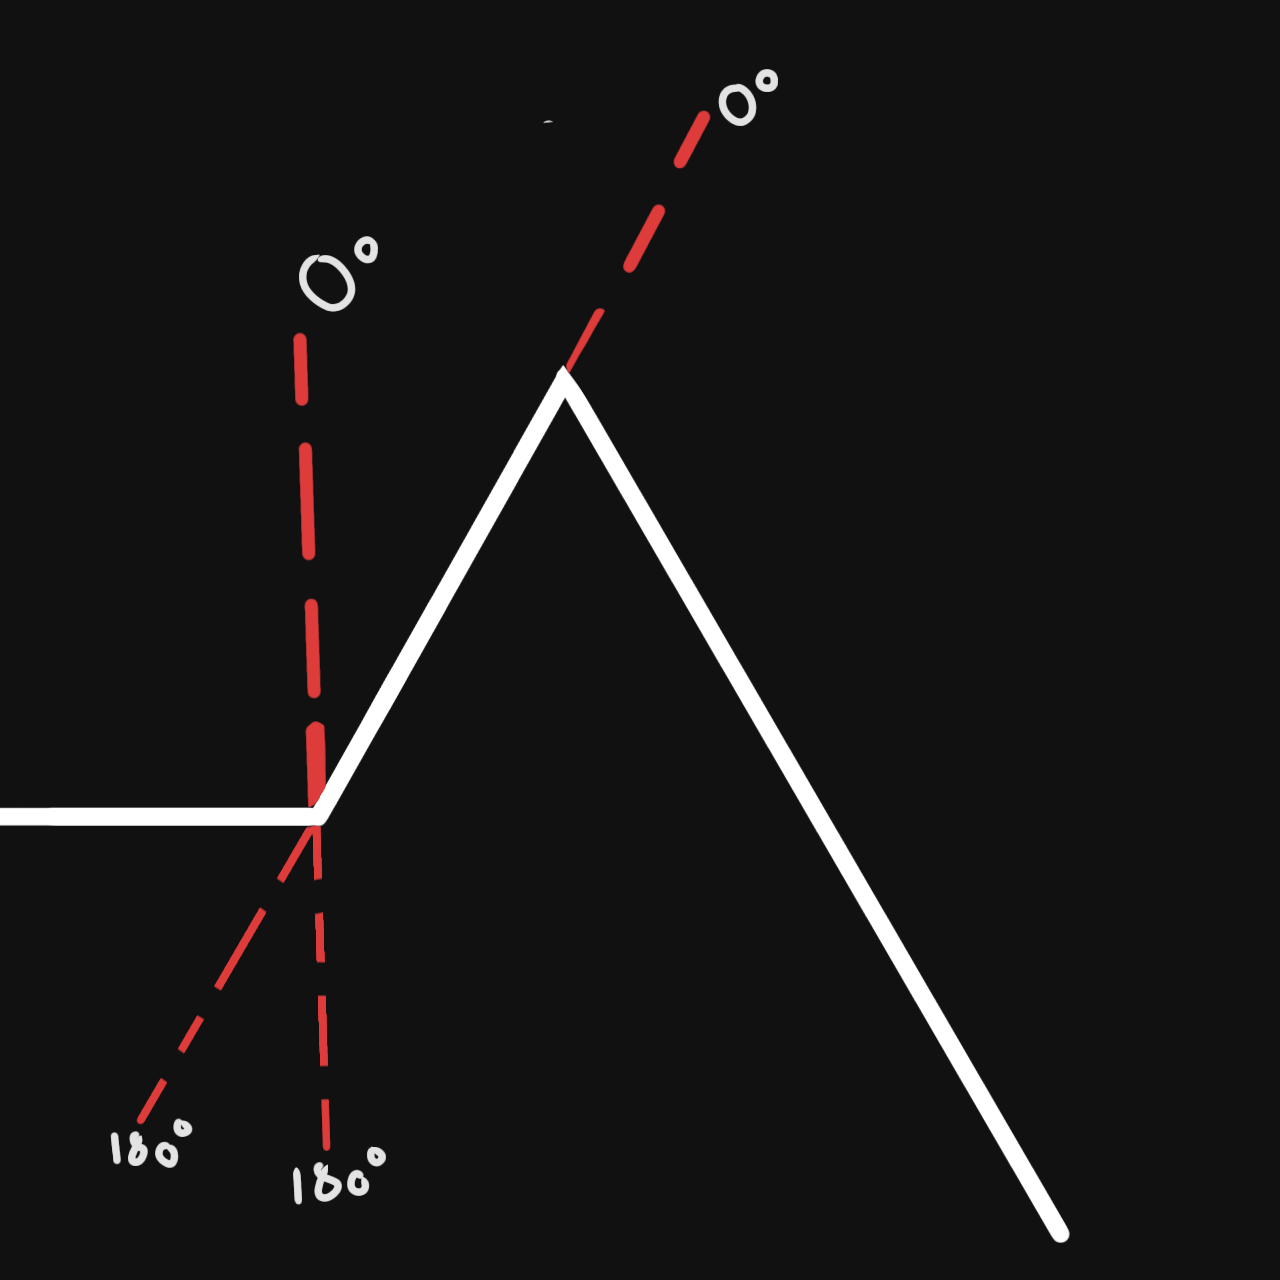
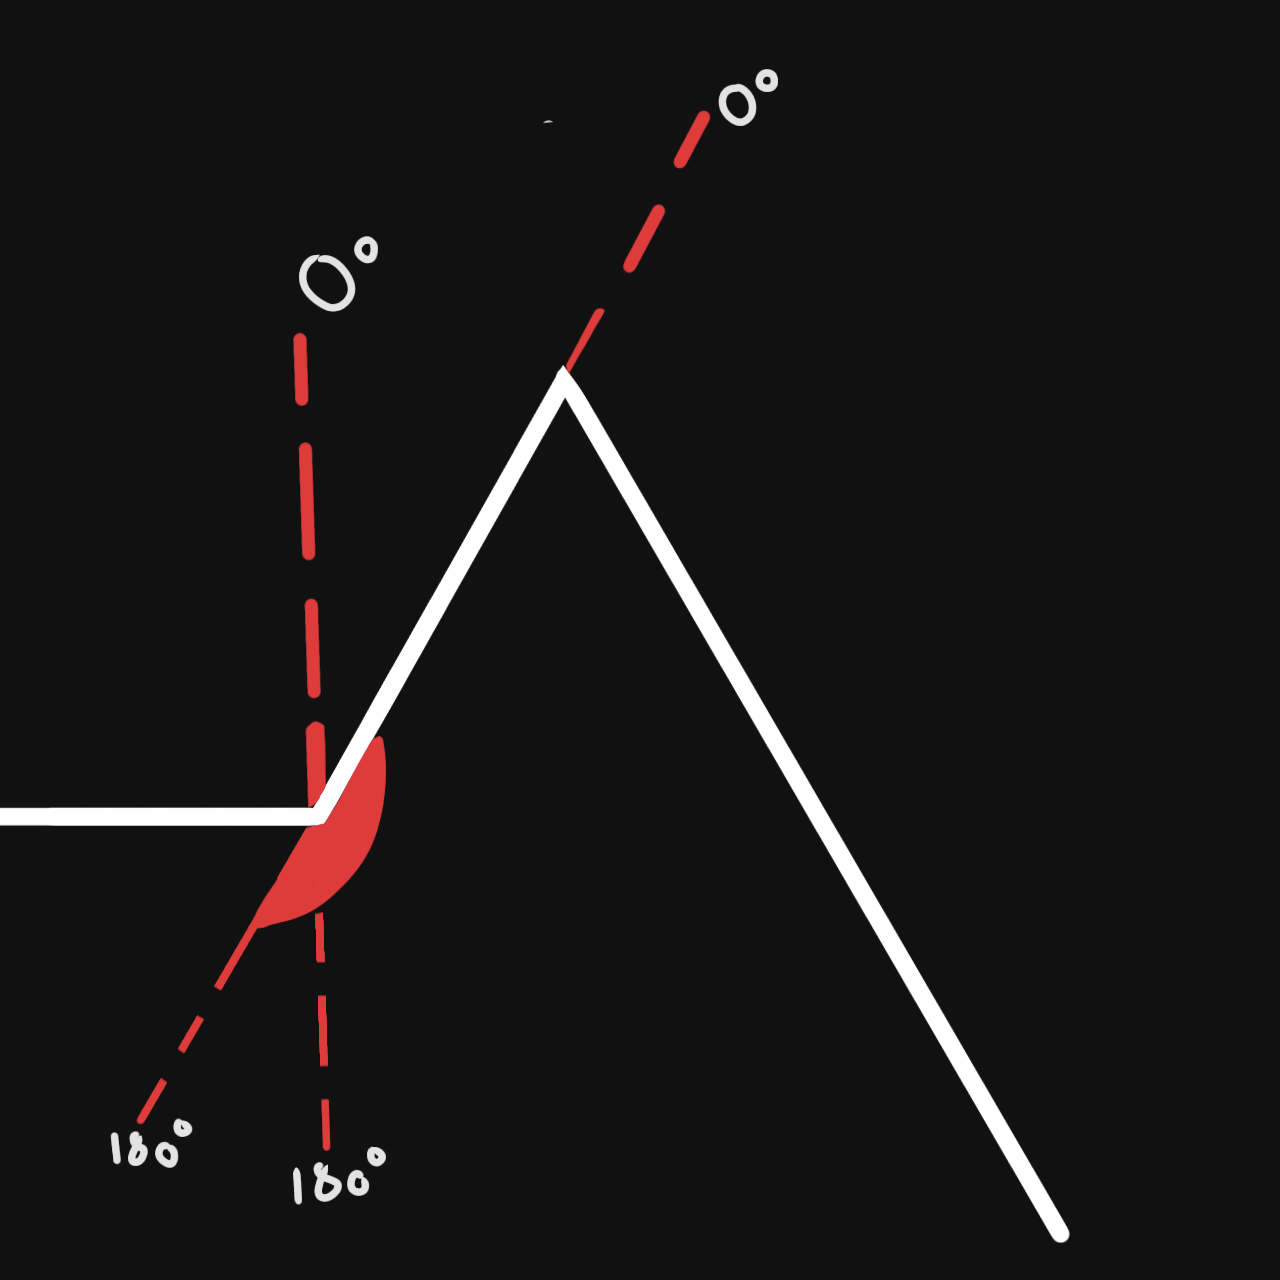
Al kashi

Changed region(s): [[0.1875, 0.5625, 0.3125, 0.7188]]

diff --git a/vues/project3.html b/vues/project3.html
@@ -15,8 +15,10 @@
     <section class="first-page">
         <div class="text-container">
 
+            <!-- Introduction -->
             <h1>La cinématique inversée pour robot hexapode</h1>
 
+            <!-- Bloc 1 : Définition des valeurs h et exp -->
             <div class="kinematic-block">
                 <img src="../public/image/Intranet/schema1ck.png" class="kinematik1" alt="Schéma 1">
                 <div>
@@ -27,6 +29,7 @@
                 </div>
             </div>
 
+            <!-- Bloc 2 : Calcul de la valeur inconnue avec Pythagore -->
             <div class="kinematic-block">
                 <div class="formula-block">
                     <p>hyp = √(h² + exp²)</p>
@@ -38,18 +41,29 @@
 
             <p class="center-text">Résolution de la valeur inconnue grâce à Pythagore</p>
 
+            <!-- Bloc 3 : Explication des angles des servo-moteurs -->
             <div class="kinematic-block">
                 <img src="../public/image/Intranet/schema3ck.png" class="kinematik3" alt="Schéma 3">
                 <p>Une fois que nous avons trouvé la valeur, nous pouvons chercher les angles des servo-moteurs.</p>
             </div>
 
+            <!-- Section : Les angles et servo-moteurs -->
             <h1>Les angles et servo-moteurs</h1>
 
+            <!-- Bloc 4 : Explication des limites des servo-moteurs -->
             <div class="kinematic-block">
                 <p>Les servo-moteurs sont limités à un axe de 180°.</p>
                 <img src="../public/image/Intranet/schema5ck.png" class="kinematik5" alt="Schéma 5">
-                <p>L'angle tracé en rouge fait 180°, donc les angles que peut atteindre le servo-moteur. Nous allons nous en servir pour récupérer les angles recherchés.</p>
             </div>
+
+            <div class="kinematic-block">
+                <p>L'angle tracé en rouge fait 180°, donc les angles que peut atteindre le servo-moteur. Nous allons nous en servir pour récupérer les angles recherchés.</p>
+                <img src="../public/image/Intranet/schema6ck.png" class="kinematik6" alt="Schéma 6">
+            </div>
+
+            <!-- Section : Le Théorème d'Al Kashi -->
+            <h2>Le Théorème d'Al Kashi</h2>
+            <p>Le Théorème d'Al Kashi permet de calculer un angle grâce à la longueur de chaque segment du triangle.</p>
 
         </div>
     </section>
